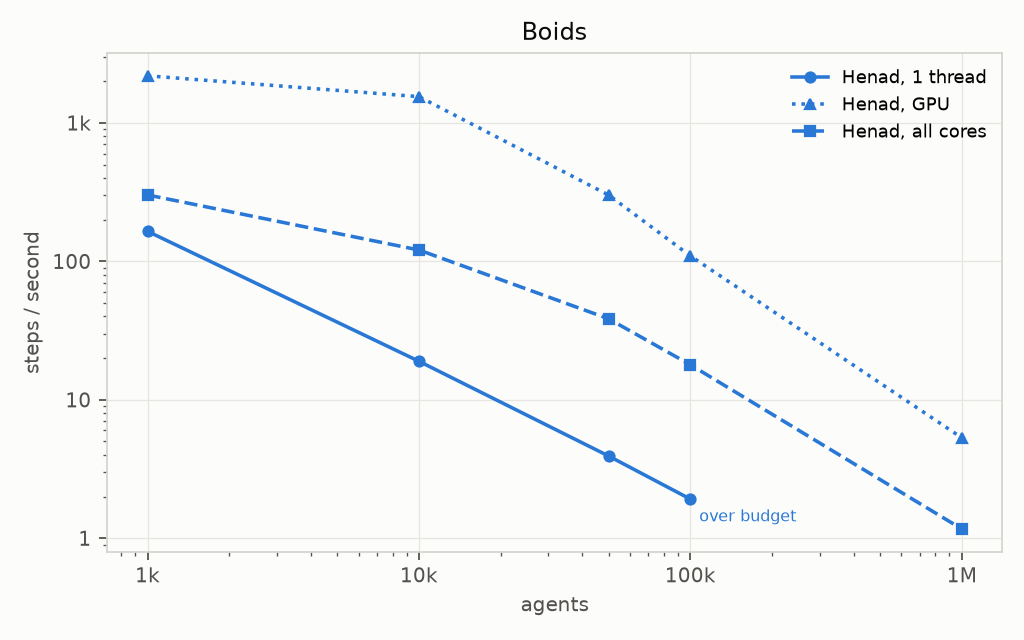
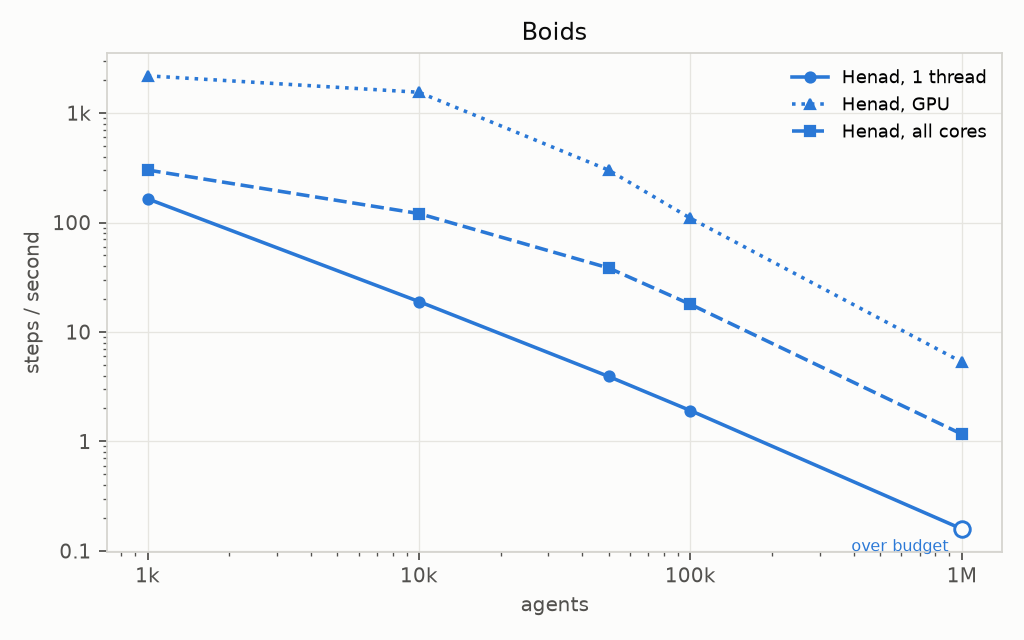
bench: add seconds taken per 100 steps plots

diff --git a/scripts/plot_compare.py b/scripts/plot_compare.py
@@ -5,10 +5,10 @@
 # ///
 """Turn a cross-engine sweep into the figures and tables the benchmarks page includes.
 
-Reads whatever `compare_bench.py` wrote and produces, per model, a throughput curve against scale
-and a table of median times normalised to Henad on one thread. Lines of code come from
-`benchmarks/loc_manifest.toml`, the secondary metric the Agents.jl comparison reports next to time:
-how much a model costs to express.
+Reads whatever `compare_bench.py` wrote and produces, per model, the measured time against scale,
+two throughput curves derived from it, and a table of median times normalised to Henad on one
+thread. Lines of code come from `benchmarks/loc_manifest.toml`, the secondary metric the Agents.jl
+comparison reports next to time: how much a model costs to express.
 
     uv run scripts/plot_compare.py results/compare/<host>_<date>.csv
     uv run scripts/plot_compare.py results/compare/<host>_<date>.csv --publish
@@ -85,7 +85,13 @@ class Series:
             return {"1t": "Henad, 1 thread", "all": "Henad, all cores", "gpu": "Henad, GPU"}.get(
                 self.variant, f"Henad ({self.variant})"
             )
-        pretty = {"agents_jl": "Agents.jl", "netlogo": "NetLogo", "mesa": "Mesa", "mason": "MASON"}
+        pretty = {
+            "agents_jl": "Agents.jl",
+            "netlogo": "NetLogo",
+            "mesa": "Mesa",
+            "mason": "MASON",
+            "krabmaga": "krABMaga",
+        }
         name = pretty.get(self.engine, self.engine)
         return name if self.variant == "default" else f"{name} ({self.variant})"
 
@@ -148,6 +154,15 @@ def series_of(rows: list[dict]) -> dict[Series, list[dict]]:
     return grouped
 
 
+def y_label(metric: str, points: list[dict]) -> str:
+    if metric == "steps_per_sec":
+        return "steps / second"
+    if metric == "updates_per_sec":
+        return "cell or agent updates / second"
+    steps = {r["steps"] for r in points}
+    return f"seconds for {steps.pop()} steps" if len(steps) == 1 else "seconds"
+
+
 def draw_model(rows: list[dict], model: str, metric: str, out: Path) -> bool:
     points = [r for r in rows if r["model"] == model]
     if not points:
@@ -158,22 +173,39 @@ def draw_model(rows: list[dict], model: str, metric: str, out: Path) -> bool:
 
     drawn = False
     for series, group in sorted(series_of(points).items(), key=lambda kv: kv[0].label):
-        xs = [int(r["scale"]) for r in group if r["status"] == "ok" and number(r, metric)]
-        ys = [number(r, metric) for r in group if r["status"] == "ok" and number(r, metric)]
-        if not xs:
+        measured = sorted((r for r in group if number(r, metric)), key=lambda r: int(r["scale"]))
+        if not measured:
             continue
+        xs = [int(r["scale"]) for r in measured]
+        ys = [number(r, metric) for r in measured]
         color, line, marker = series.style
         ax.plot(xs, ys, line, marker=marker, color=color, label=series.label, linewidth=1.6, markersize=4.5)
+        # A rung that ran out of budget still timed the reps it finished. Hollow, since a median
+        # over two reps is not the same measurement as one over five.
+        short = [(int(r["scale"]), number(r, metric)) for r in measured if r["status"] != "ok"]
+        if short:
+            ax.plot(
+                [x for x, _ in short],
+                [y for _, y in short],
+                linestyle="none",
+                marker=marker,
+                color=color,
+                markersize=7.0,
+                markerfacecolor=SURFACE,
+                markeredgewidth=1.3,
+            )
         drawn = True
         stopped = next((r for r in group if r["status"] in INCOMPLETE and INCOMPLETE[r["status"]]), None)
         if stopped:
+            last = xs[-1] == max(int(r["scale"]) for r in points)
             ax.annotate(
                 INCOMPLETE[stopped["status"]],
                 xy=(xs[-1], ys[-1]),
-                xytext=(4, -10),
+                xytext=(-6 if last else 4, -10),
                 textcoords="offset points",
                 fontsize=7,
                 color=color,
+                ha="right" if last else "left",
             )
     if not drawn:
         plt.close(fig)
@@ -182,7 +214,7 @@ def draw_model(rows: list[dict], model: str, metric: str, out: Path) -> bool:
     ax.set_xscale("log")
     ax.set_yscale("log")
     ax.set_xlabel(AXIS_LABELS.get(axis, axis))
-    ax.set_ylabel("steps / second" if metric == "steps_per_sec" else "cell or agent updates / second")
+    ax.set_ylabel(y_label(metric, points))
     ax.set_title(MODEL_TITLES.get(model, model))
     ax.yaxis.set_major_formatter(FuncFormatter(si))
     ax.xaxis.set_major_formatter(FuncFormatter(si))
@@ -393,8 +425,12 @@ def main() -> int:
 
     made = []
     for model in sorted({r["model"] for r in rows}):
-        for metric, suffix in (("steps_per_sec", "steps"), ("updates_per_sec", "updates")):
-            target = out / f"{model}_{suffix}_per_sec.png"
+        for metric, stem in (
+            ("median_s", "seconds"),
+            ("steps_per_sec", "steps_per_sec"),
+            ("updates_per_sec", "updates_per_sec"),
+        ):
+            target = out / f"{model}_{stem}.png"
             if draw_model(rows, model, metric, target):
                 made.append(target)
         table = ratio_table(rows, model)

diff --git a/scripts/compare_bench.py b/scripts/compare_bench.py
@@ -134,13 +134,21 @@ class Engine:
     `one_rep_per_process` is for an engine whose reps would otherwise share a trajectory. No engine
     needs it now that henad-cli seeds rep `i` from `base + i`, and running Henad one process per rep
     put GPU ramp-up inside every timed window.
+
+    `variants` is every build that exists, which is what gets gated and built. `timed` is the subset
+    the sweep puts on the ladder.
     """
 
     name: str
     variants: list[str] = field(default_factory=lambda: ["default"])
+    untimed: tuple[str, ...] = ()
     one_rep_per_process: bool = False
     version: str = ""
     _reason: str | None = None
+
+    @property
+    def timed(self) -> list[str]:
+        return [v for v in self.variants if v not in self.untimed]
 
     def detect(self) -> str | None:
         """Return why this engine cannot run here, or None when it can."""
@@ -170,8 +178,7 @@ class Engine:
     ) -> list[str] | None:
         """Run one gate scenario and write its fixture. None when the harness has no validate mode.
 
-        `variant` defaults to the first, which for krABMaga meant the `parallel` build was timed
-        without ever being gated.
+        `variant` defaults to the first. Gating every variant means passing this one explicitly.
         """
         args = [*self.launcher(variant or self.variants[0]), "--validate", scenario, "--out", str(out)]
         if seed is not None:
@@ -357,7 +364,11 @@ class AgentsJl(Engine):
 
 class Krabmaga(Engine):
     def __init__(self) -> None:
-        super().__init__(name="krabmaga", variants=["default", "parallel"])
+        # `parallel` is gated and built, never timed. Its scheduler holds one state lock across
+        # each agent's whole step, so the workers serialise, and the feature swaps the flat field
+        # vectors for sharded hash maps. A ladder of it measures krABMaga's serial path carrying
+        # that overhead. `benchmarks/README.md` records the penalty and where it comes from.
+        super().__init__(name="krabmaga", variants=["default", "parallel"], untimed=("parallel",))
         self.crate = BENCHMARKS / "krabmaga"
 
     def detect(self) -> str | None:
@@ -711,8 +722,8 @@ def row_for(
             "engine": engine.name,
             "engine_version": (result.info.get("engine_version", engine.version) if result else engine.version),
             "variant": variant,
-            # What the harness says it used. krABMaga under `parallel` honestly reports 1, and
-            # recording the request instead published it as "all".
+            # What the harness says it used, not what was requested. An engine whose workers
+            # serialise reports 1, and recording the request would publish it as "all".
             "threads": (result.info.get("threads", threads) if result and result.info else threads),
             "model": point.model,
             "axis": "grid" if point.grid else "agents",
@@ -906,7 +917,7 @@ def main() -> int:
         points = [p for p in points if p.scale == LADDER[p.model]["points"][0]]
         points = [Point(p.model, p.scale, p.grid, p.agents, p.world, 10, 1) for p in points]
 
-    runs = [(engine, variant, point) for engine in available for variant in engine.variants for point in points]
+    runs = [(engine, variant, point) for engine in available for variant in engine.timed for point in points]
 
     if args.dry_run:
         print(f"engines: {', '.join(e.name for e in available)}")

diff --git a/scripts/validate_ports.py b/scripts/validate_ports.py
@@ -232,8 +232,8 @@ def main() -> int:
             print(f"skipping {engine.name}: {reason}", file=sys.stderr)
             continue
         engine.prepare()
-        # Every variant is gated. krABMaga's `parallel` build swaps its field storage outright and
-        # was timed on the default build's verdict.
+        # Every variant is gated, timed or not. krABMaga's `parallel` build swaps its field storage
+        # outright, and a release that changes the swap shows up here.
         for variant in engine.variants:
             key = engine.name if variant == engine.variants[0] else f"{engine.name}/{variant}"
             results[key] = {}

diff --git a/docs/benchmarks.md b/docs/benchmarks.md
@@ -74,8 +74,14 @@ Once a rung goes over, the larger ones are not attempted, and a rung that crashe
 ### Threads
 
 Henad appears three times: on one thread, on every core, and on the GPU.
-The reference engines run single-threaded, which is what their own examples do, and krABMaga appears again under its `parallel` feature.
-Comparing Henad on one thread against a single-threaded engine is the like-for-like row; the rest shows what the engine does with the hardware it is given.
+Every reference engine runs single-threaded, which is what their own examples do.
+Comparing Henad on one thread against them is the like-for-like row, and Henad's other two rows show what the same machine gives an engine built to use it.
+
+No engine here offers a parallel counterpart to Henad's all-cores row.
+krABMaga is the only one with a thread count to set, and its `parallel` feature does not run agents concurrently: the scheduler takes one lock on the whole state for each agent and holds it across `before_step`, `step` and `after_step`.
+The workers serialise, and the same feature swaps the flat field vectors for sharded hash maps.
+The build is gated like any other and left off the ladder, since timing it would measure krABMaga's serial path carrying that overhead.
+Its cost is recorded in `benchmarks/README.md` rather than drawn as a curve.
 
 ### Gates
 
@@ -91,6 +97,7 @@ A port is timed only after it agrees with Henad.
 `scripts/validate_ports.py` runs them and records a verdict per engine, variant and model.
 `compare_bench.py` reads that file and skips anything whose verdict is not `yes`, so a port that fails its gate is not timed and the verdict travels into the results as a column.
 Each variant is gated separately, krABMaga's `parallel` build included, which puts the full set at twenty-four rather than the twenty this table shows.
+A build is gated whether or not it is timed.
 
 | Engine | Game of Life | Boids | SIR | Ant foraging |
 |---|---|---|---|---|
@@ -116,7 +123,14 @@ Henad's own rows, as a baseline for the ports still to come.
 Each cell is that engine's median step time against Henad on one thread at the same rung.
 Below 1 is faster than Henad on one thread; above 1 is slower.
 
+The first figure per model is the measurement itself, seconds to run the fixed step count, on log axes.
+Slope is the scaling exponent and height is the constant factor.
+The two rate figures divide that time by the step count and by the population.
+A hollow marker is a rung whose budget ran out before all five reps, timed on however many finished.
+
 ### Game of Life
+
+![Seconds for 100 steps](assets/benchmarks/game_of_life_seconds.png){ loading=lazy }
 
 ![Steps per second](assets/benchmarks/game_of_life_steps_per_sec.png){ loading=lazy }
 
@@ -128,6 +142,8 @@ Both of Henad's parallel backends *lose* to a single thread on a small grid, and
 Four thousand cells is not enough work to pay for a rayon fan-out, and it is far from enough to pay for a round trip to the GPU.
 
 ### SIR
+
+![Seconds for 100 steps](assets/benchmarks/sir_seconds.png){ loading=lazy }
 
 ![Steps per second](assets/benchmarks/sir_steps_per_sec.png){ loading=lazy }
 
@@ -142,6 +158,8 @@ Every engine runs the same window.
 
 ### Boids
 
+![Seconds for 100 steps](assets/benchmarks/boids_seconds.png){ loading=lazy }
+
 ![Steps per second](assets/benchmarks/boids_steps_per_sec.png){ loading=lazy }
 
 ![Cell or agent updates per second](assets/benchmarks/boids_updates_per_sec.png){ loading=lazy }
@@ -149,6 +167,8 @@ Every engine runs the same window.
 --8<-- "docs/assets/benchmarks/tables/ratio_boids.snippet"
 
 ### Ant foraging
+
+![Seconds for 200 steps](assets/benchmarks/ants_seconds.png){ loading=lazy }
 
 ![Steps per second](assets/benchmarks/ants_steps_per_sec.png){ loading=lazy }
 
@@ -206,10 +226,10 @@ Where two engines cannot be made identical, the difference is stated rather than
   it visits twice the chance of the others, which drifts ants up and left. Every port reproduces
   it, so the ports stay comparable, but it is not gated and any measurement of how fast ants find
   food is partly measuring it.
-- **krABMaga's `parallel` feature does not run agents concurrently.** Its scheduler holds one lock
-  on the whole state for each agent's step, so the workers serialise, and the feature also swaps the
-  flat field vectors for sharded hash maps. Its row is reported at one effective thread and is
-  slower than the default build, which is the measurement, not a mistake.
+- **krABMaga's `parallel` feature does not run agents concurrently**, and is gated but not timed.
+  Its scheduler holds one lock on the whole state for each agent's step, so the workers serialise,
+  and the feature also swaps the flat field vectors for sharded hash maps. Measured at 16.7x the
+  default build on 1024² SIR and 11.9x on 20k ants, all of it overhead.
 - **NetLogo's boids sorts its neighbour set**, worth 21% of its step, because the model is the one
   the earlier consistency work validated and was left unchanged rather than tuned for speed. Its
   SIR carries no such cost: the benchmark copy drops the per-patch repaint the validated model

diff --git a/benchmarks/README.md b/benchmarks/README.md
@@ -84,11 +84,19 @@ Things a reader of a results table has to know, that the table itself cannot say
 - **Mesa turns the cyclic collector off inside its timed window**, where MASON's and NetLogo's
   collectors run inside theirs. Both are disclosed rather than equalised, since either choice
   favours somebody.
-- **krABMaga's `parallel` feature does not run agents concurrently.** Its scheduler takes one lock
-  around the whole state for each agent's step, so the workers serialise, and the feature also swaps
-  the flat field vectors for sharded hash maps. Measured on boids, the parallel build spends less
-  than one core of user time and the rest in the kernel contending for that lock. It is reported as
-  a separate row because it is a real configuration a user can select, not because it is faster.
+- **krABMaga's `parallel` feature does not run agents concurrently.** `Schedule::step` divides the
+  agents across crossbeam workers, then each worker takes one lock on the whole state and holds it
+  across that agent's `before_step`, `step` and `after_step`. Two agents never run at once. The same
+  feature swaps `DenseNumberGrid2D` and `Field2D` from flat vectors to sharded hash maps, and its
+  own `THREAD_NUM` reads `--nt` off the process argv and falls back to one thread. Measured on
+  boids, the build spends less than one core of user time and the rest in the kernel contending for
+  that lock.
+
+  It is gated and built like any other variant, and left off the ladder. A ladder of it would
+  measure krABMaga's serial path carrying that overhead, at 16.7x the default build on 1024² SIR,
+  16.1x on 2048² Game of Life and 11.9x on 20k ants. Two rungs say that. Eighteen say it again.
+  `compare_bench.py` carries it in `untimed`, so a future release that changes the scheduler needs
+  one line to put it back.
 
 ## Reading a number
 
